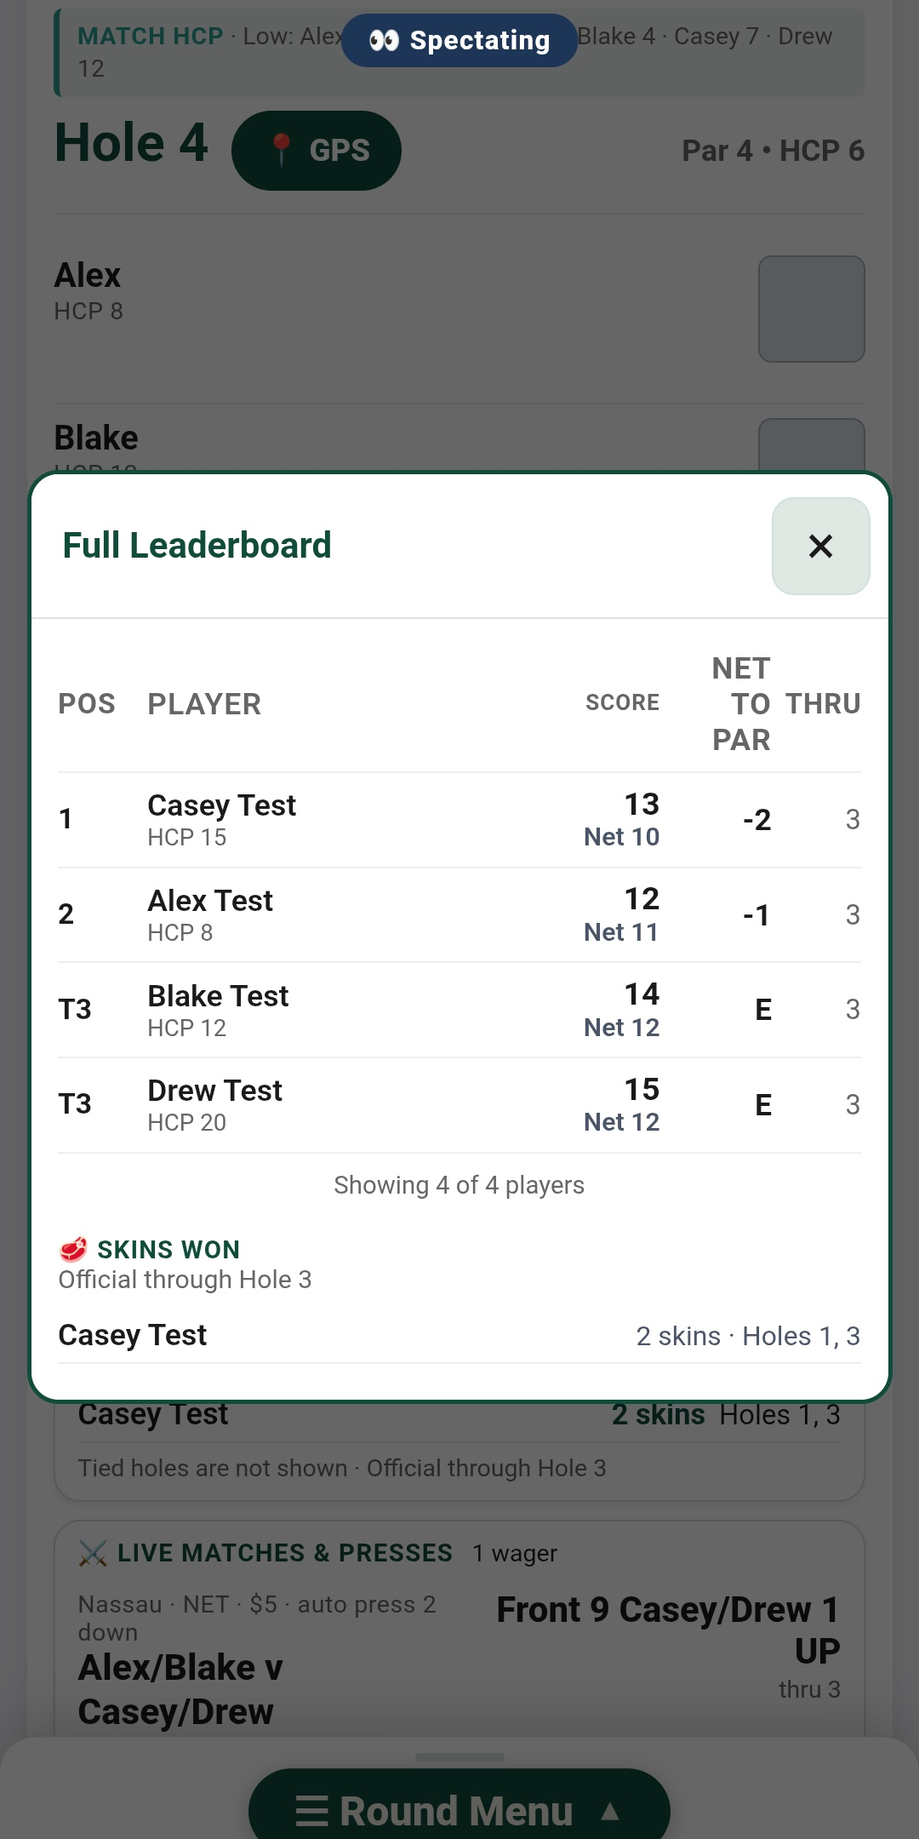
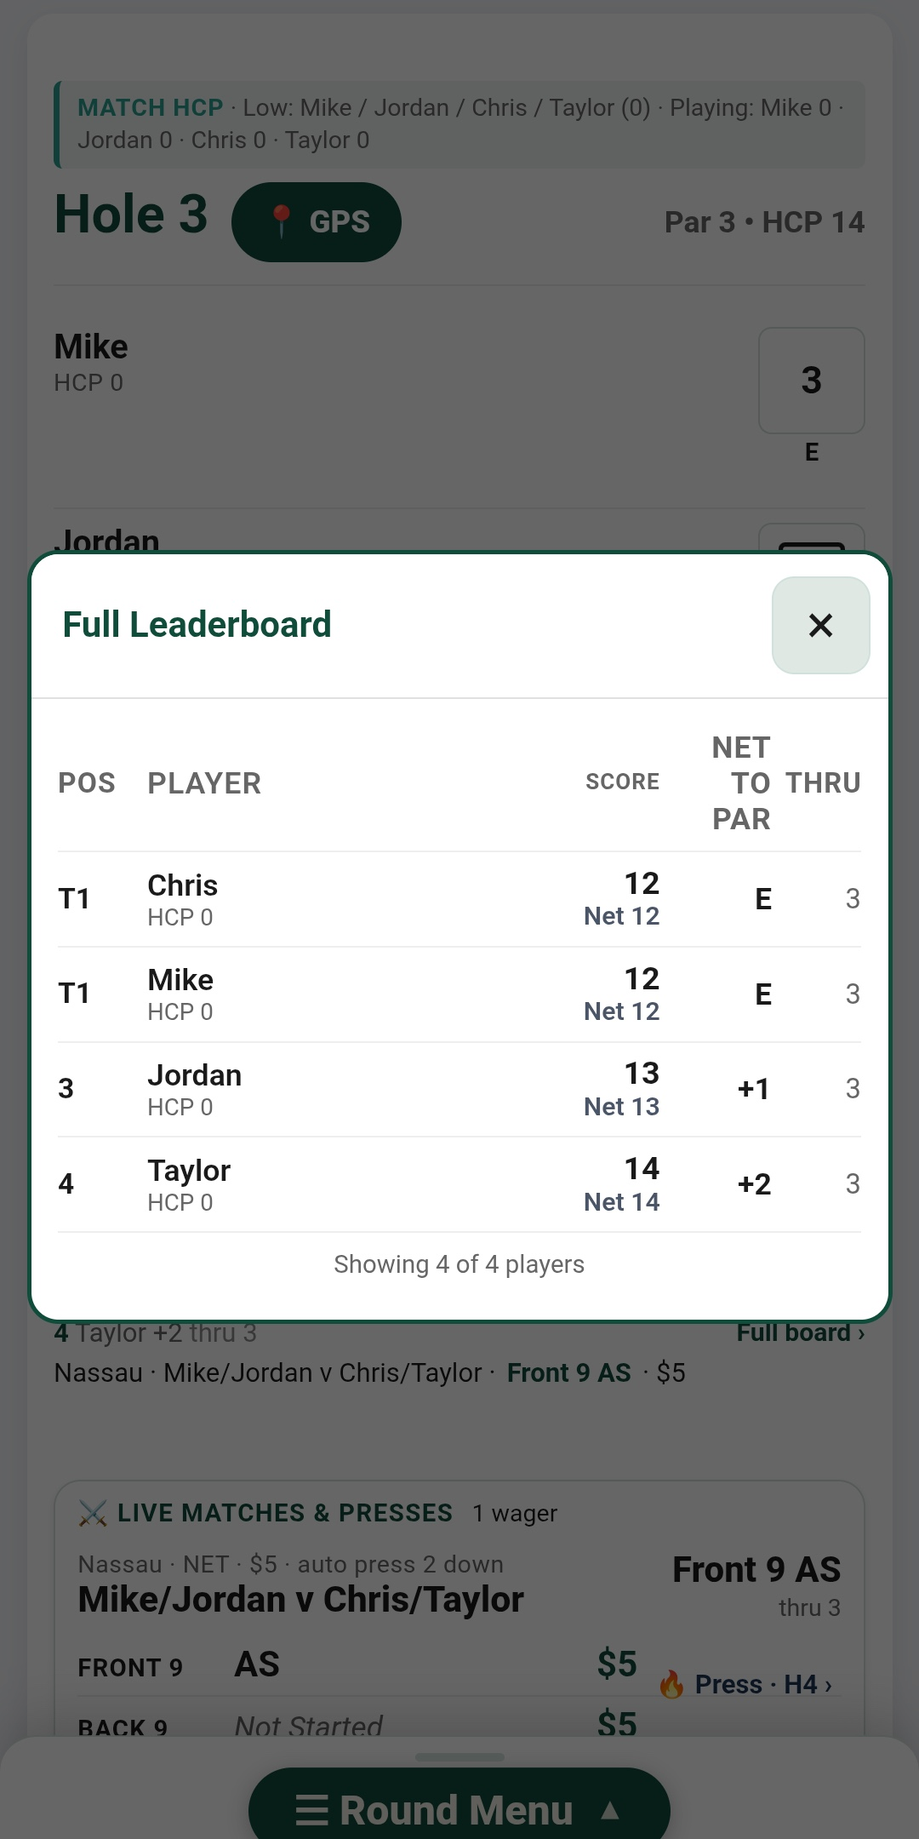
Android 0.2 (6): email sign-in App Links (app side); job 006 answers; players-first loop root-caused
B (005 plan, app side). AndroidManifest: an autoVerify intent filter on MainActivity for
https://golfapp-9fb21.firebaseapp.com/__/auth/links. front-door.js armLinks(), Android
only: appUrlOpen (warm) and getLaunchUrl (cold) reopen admin.html with the link's own
sign-in query, which email-link-auth.js's install() already finishes; account=1 keeps the
launch hop off Home; one code is handled once; only our host, https, mode=signIn.
email-link-auth.js UNCHANGED: ActionCodeSettings stay byte-for-byte the same on the
website, iOS and Android (test). The 005 §2a.5 "android block only from Android" change
conflicts with that, so it is held for Manny.
Emulator (adb user-selection override, no hosting): pm get-app-links lists the domain;
a /__/auth/links link opened via VIEW reached the app warm (delivered to the running
instance) and cold (LaunchState COLD), landing on admin.html's finish path.
android_gps_fixes_test.js +6 (warm, cold, rejects, iOS unchanged, settings unchanged,
manifest); 6 negative controls red (one was inert until a foreign-inner-host case was
added), each restored by sha.

A. Legal drafts (not deployed): deletion "reply within 7 days, delete within 30" (Manny
to confirm before deploy); the two keyless organizer records stay (stage-2 rule NOT live,
mailbox 007); privacy policy: "the date at the top changes" replaces the in-app notice.
Screenshots 06-07 reshot from screenshot round LX83Z6 ("GPS round": Mike, Jordan, Chris,
[…]

diff --git a/android_gps_fixes_test.js b/android_gps_fixes_test.js
@@ -59,7 +59,8 @@ function windowFor(platform, page, extra) {
     const geo = (extra && extra.geo) || {};
     const App = {
         addListener(name, fn) { calls.push('App.addListener:' + name); (listeners[name] = listeners[name] || []).push(fn); return { remove() {} }; },
-        minimizeApp() { calls.push('App.minimizeApp'); }
+        minimizeApp() { calls.push('App.minimizeApp'); },
+        getLaunchUrl() { calls.push('App.getLaunchUrl'); return Promise.resolve((extra && extra.launchUrl) ? { url: extra.launchUrl } : undefined); }
     };
     const W = {
         Capacitor: {
@@ -71,7 +72,7 @@ function windowFor(platform, page, extra) {
         history: { back() { calls.push('history.back'); } },
         navigator: { onLine: true },
         localStorage: { getItem: () => null, setItem() {}, removeItem() {} },
-        sessionStorage: { getItem: () => null, setItem() {}, removeItem() {} },
+        sessionStorage: (() => { const m = new Map(); return { getItem: k => (m.has(k) ? m.get(k) : null), setItem: (k, v) => m.set(k, String(v)), removeItem: k => m.delete(k) }; })(),
         document: {
             readyState: 'complete',
             getElementById: id => els.get(id) || null,
@@ -82,7 +83,7 @@ function windowFor(platform, page, extra) {
         setTimeout(fn, ms) { const t = { fn, at: now + (ms || 0), id: timers.length + 1 }; timers.push(t); return t.id; },
         clearTimeout(id) { const t = timers.find(x => x.id === id); if (t) t.fn = null; },
         addEventListener() {}, scrollTo() {}, console,
-        URLSearchParams, Promise, JSON, Math, Date, String, Number, Array, Object, RegExp, Error
+        URL, URLSearchParams, Promise, JSON, Math, Date, String, Number, Array, Object, RegExp, Error
     };
     W.window = W;
     if (extra && extra.GolfBack) W.GolfBack = extra.GolfBack;
@@ -405,5 +406,78 @@ describe('5. THE STATUS BAR: Android only, native, no page CSS changed', () => {
         });
         walk(ios);
         assert.deepEqual(hit, [], 'an iOS source reads insetsHandling, so the config key reaches iOS');
+    });
+});
+
+// ---------------------------------------------------------------------------
+// JOB 006 (from the 005 plan): an email sign-in link opens the app on Android.
+describe('B. APP LINKS: the email sign-in link opens the app on Android only', () => {
+    const KEY = 'K', CODE = 'TESTCODE123';
+    const inner = 'https://golfapp-9fb21.firebaseapp.com/__/auth/action?apiKey=' + KEY + '&mode=signIn&oobCode=' + CODE
+        + '&continueUrl=https://golf-app-5a5.pages.dev/admin.html&lang=en';
+    const wrapper = 'https://golfapp-9fb21.firebaseapp.com/__/auth/links?link=' + encodeURIComponent(inner);
+    const want = 'admin.html?apiKey=' + KEY + '&mode=signIn&oobCode=' + CODE
+        + '&continueUrl=https%3A%2F%2Fgolf-app-5a5.pages.dev%2Fadmin.html&lang=en&account=1';
+
+    test('Android, warm start: appUrlOpen with the link reopens admin.html with its own sign-in query, once', { skip }, () => {
+        const sb = windowFor('android', 'home.html');
+        sb.__els.set('v-main', sb.__el('v-main')); sb.__els.get('v-main').classList.add('on');
+        load(sb, 'front-door.js');
+        const open = sb.__listeners.appUrlOpen || [];
+        assert.equal(open.length, 1, 'no appUrlOpen listener on Android');
+        open[0]({ url: wrapper });
+        assert.equal(sb.location.href, want, 'the link did not go to the existing email-link finish');
+        sb.location.href = 'home.html';
+        open[0]({ url: wrapper });
+        assert.equal(sb.location.href, 'home.html', 'the same code was handled twice');
+    });
+
+    test('Android, cold start: getLaunchUrl carries the link the same way', { skip }, async () => {
+        const sb = windowFor('android', 'home.html', { launchUrl: wrapper });
+        sb.__els.set('v-main', sb.__el('v-main')); sb.__els.get('v-main').classList.add('on');
+        load(sb, 'front-door.js');
+        await settle();
+        assert.ok(sb.__calls.includes('App.getLaunchUrl'));
+        assert.equal(sb.location.href, want);
+    });
+
+    test('Android: anything that is not a sign-in link on our host is ignored', { skip }, () => {
+        const sb = windowFor('android', 'home.html');
+        load(sb, 'front-door.js');
+        const t = sb.HardPanLinks.target;
+        assert.equal(t('https://golfapp-9fb21.firebaseapp.com/__/auth/handler?x=1'), null);
+        assert.equal(t('https://evil.example.com/__/auth/links?link=' + encodeURIComponent(inner)), null);
+        assert.equal(t('https://golfapp-9fb21.firebaseapp.com/__/auth/links?link=' + encodeURIComponent(inner.replace('golfapp-9fb21.firebaseapp.com', 'evil.example.com'))), null, 'our host wrapping a foreign inner link');
+        assert.equal(t('https://golfapp-9fb21.firebaseapp.com/__/auth/links?link=' + encodeURIComponent(inner.replace('mode=signIn', 'mode=resetPassword'))), null);
+        assert.equal(t('http://golfapp-9fb21.firebaseapp.com/__/auth/links?link=' + encodeURIComponent(inner)), null);
+        assert.equal(t(inner), want, 'the inner action link alone is accepted too');
+    });
+
+    test('iOS UNCHANGED: no appUrlOpen listener, no getLaunchUrl', { skip }, () => {
+        const sb = windowFor('ios', 'home.html', { launchUrl: wrapper });
+        load(sb, 'front-door.js');
+        assert.equal((sb.__listeners.appUrlOpen || []).length, 0);
+        assert.ok(!sb.__calls.includes('App.getLaunchUrl'));
+    });
+
+    test('ActionCodeSettings are byte-for-byte the same on the website, iOS and Android (unchanged)', () => {
+        const { loadJsFile } = require('./helpers/load-script.js');
+        const sb = loadJsFile('email-link-auth.js', []);
+        const url = 'https://golf-app-5a5.pages.dev/admin.html';
+        const as = (cap) => { sb.Capacitor = sb.window.Capacitor = cap; return JSON.stringify(sb.emailLinkAuth.actionCodeSettings(url)); };
+        const web = as(undefined);
+        const ios = as({ getPlatform: () => 'ios', isNativePlatform: () => true, Plugins: {} });
+        const android = as({ getPlatform: () => 'android', isNativePlatform: () => true, Plugins: {} });
+        const before = JSON.stringify({ url, handleCodeInApp: true, iOS: { bundleId: 'com.rattlegolf.app' }, android: { packageName: 'com.rattlegolf.app', installApp: false } });
+        assert.equal(web, before, 'the website ActionCodeSettings changed');
+        assert.equal(ios, before, 'the iOS ActionCodeSettings changed');
+        assert.equal(android, before);
+    });
+
+    test('the manifest hands /__/auth/links on the Firebase Hosting domain to MainActivity, autoVerify', () => {
+        const m = read('android/app/src/main/AndroidManifest.xml');
+        assert.match(m, /<intent-filter android:autoVerify="true">\s*<action android:name="android\.intent\.action\.VIEW" \/>\s*<category android:name="android\.intent\.category\.DEFAULT" \/>\s*<category android:name="android\.intent\.category\.BROWSABLE" \/>\s*<data android:scheme="https" android:host="golfapp-9fb21\.firebaseapp\.com" android:pathPrefix="\/__\/auth\/links" \/>\s*<\/intent-filter>/);
+        const act = m.slice(m.indexOf('android:name=".MainActivity"'), m.indexOf('</activity>'));
+        assert.ok(act.includes('android:pathPrefix="/__/auth/links"'), 'the filter is not on MainActivity');
     });
 });

diff --git a/front-door.js b/front-door.js
@@ -2892,6 +2892,49 @@
     }
     armBack();
 
+    // ---- ANDROID: AN EMAIL SIGN-IN LINK OPENS THE APP (job 006, the 005 plan) ------------
+    // AndroidManifest.xml's intent filter hands https://golfapp-9fb21.firebaseapp.com/__/auth/
+    // links to the app; the App plugin carries it here - appUrlOpen on a warm start,
+    // getLaunchUrl on a cold one. It reopens admin.html with the link's own query (mode=signIn
+    // &oobCode=...), which is exactly the arrival email-link-auth.js's install() already
+    // finishes for the website - no second sign-in path. account=1 keeps the launch hop from
+    // sending a bare admin.html to Home. A code is handled once: getLaunchUrl keeps answering
+    // the same launch URL on every page load of that launch. ANDROID ONLY: iOS and the web
+    // never arm it.
+    var LINK_HOST = 'golfapp-9fb21.firebaseapp.com', LINK_DONE = 'hardpan_email_link_done';
+    function signInTarget(url) {
+        try {
+            var u = new URL(String(url || ''));
+            if (u.protocol !== 'https:' || u.hostname !== LINK_HOST || u.pathname.indexOf('/__/auth/') !== 0) return null;
+            var inner = u.searchParams.get('link');
+            if (inner) u = new URL(inner);
+            if (u.hostname !== LINK_HOST || u.searchParams.get('mode') !== 'signIn' || !u.searchParams.get('oobCode')) return null;
+            var q = new URLSearchParams(u.search);
+            q.set('account', '1');
+            return 'admin.html?' + q.toString();
+        } catch (e) { return null; }
+    }
+    function openSignInLink(url) {
+        var to = signInTarget(url);
+        if (!to) return false;
+        var code = new URLSearchParams(to.split('?')[1]).get('oobCode');
+        if (ss(LINK_DONE) === code) return false;
+        ss(LINK_DONE, code);
+        W.location.href = to;
+        return true;
+    }
+    function armLinks() {
+        if (!native() || !android()) return false;
+        var App = W.Capacitor.Plugins && W.Capacitor.Plugins.App;
+        if (!App || typeof App.addListener !== 'function') return false;
+        App.addListener('appUrlOpen', function (ev) { openSignInLink(ev && ev.url); });
+        if (typeof App.getLaunchUrl === 'function') {
+            Promise.resolve(App.getLaunchUrl()).then(function (r) { openSignInLink(r && r.url); }, function () {});
+        }
+        return true;
+    }
+    armLinks();
+
     W.HardPanDoors = { dayLabel: dayLabel, historyList: historyList, recapHref: recapHref, joinGroups: joinGroups, seenRound: seenRound, roundResult: roundResult, hasGames: hasGames, thruOf: thruOf, joinTarget: joinTarget, joinHref: joinHref, joinProblem: joinProblem, roundHref: roundHref, stuckRound: stuckRound, forgetRound: forgetRound, spectatorMode: spectatorMode, spectating: spectating, openShare: openShare, myTrips: myTrips, rememberTrip: rememberTrip, golfapiPlace: golfapiPlace, activeRound: activeRound, stuck: stuck, LOC_MS: LOC_MS, LOAD_MS: LOAD_MS, LAUNCH_MS: LAUNCH_MS, ALL_GAMES: ALL_GAMES, openAddGame: openAddGame, closeAddGame: closeAddGame, todaysGamesAdd: todaysGamesAdd, playersFirst: agPlayersFirst, AG_NEED: AG_NEED, tripPrefill: tripPrefill, placeMenuItems: placeMenuItems, placeGpsPill: placeGpsPill, door: door, setDoor: setDoor, on: on, afterSave: afterSave, recents: recents, addRecent: addRecent, gpsRoundStrip: gpsRoundStrip, allCourses: allCourses, miles: miles, ready: ready,
         position: position, nearList: nearList, shownName: shownName, where: where, meName: meName, myHcp: myHcp, loadScriptTimed: loadScriptTimed, STATES: STATES, gamesOf: gamesOf, simpleOn: simpleOn,
         draftRead: draftRead, draftKeep: draftKeep, draftClear: draftClear, draftHref: draftHref,
@@ -2904,6 +2947,7 @@
         roundBackGuard: roundBackGuard };
     W.HardPanHome = { start: homeStart, show: show };
     W.HardPanBack = { layer: backLayer, back: back, position: position };
+    W.HardPanLinks = { target: signInTarget };
     // A LAUNCH LANDS ON THE DOORS AT ONCE (Manny, 2026-10-12: the cold launch showed the
     // scorecard's "Connecting to game..." on the way). The app opens index.html with no
     // round; it used to hop index -> admin -> home, drawing each. Now, as this file is read

diff --git a/docs/legal/delete-account-DRAFT.html b/docs/legal/delete-account-DRAFT.html
@@ -2,9 +2,9 @@
 <!-- DRAFT FOR MANNY (job 003, 2026-10-17). NOT DEPLOYED. Play's account-deletion page.
      "What is deleted / what stays" matches the CLIENT delete path in account-exit.js as it
      runs today: the accountDelete Cloud Function is NOT deployed (live answers 404), so the
-     app falls back to the client delete. Two lines depend on whether the stage-2 delete rule
-     (database.rules.stage2delete.json) is live - see the NEEDS-MANNY note. The email-request
-     timeframe is a promise Manny must make: placeholder until he answers. -->
+     app falls back to the client delete. The stage-2 delete rule is NOT live (Manny's console check, mailbox 007,
+     2026-10-17): organizers/$uid has no .write, so firstSeenAt and pass stay - the page says so. The email-request
+     timeframe ("reply within 7 days, delete within 30") is from job 006: MANNY TO CONFIRM BEFORE DEPLOY. -->
 <html lang="en">
 <head>
 <meta charset="UTF-8">
@@ -40,7 +40,7 @@
 <p>You need a signal: if a step can't reach our servers, nothing is deleted and the app asks you to try again.</p>
 
 <h2>By email</h2>
-<p>If you can't open the app, email <a href="mailto:support@rattlegolf.com?subject=Delete%20my%20HardPan%20account">support@rattlegolf.com</a> from the address you signed in with, with the subject <strong>"Delete my HardPan account"</strong>. We reply to confirm and delete the account within <strong>[TIMEFRAME — Manny to set]</strong>.</p>
+<p>If you can't open the app, email <a href="mailto:support@rattlegolf.com?subject=Delete%20my%20HardPan%20account">support@rattlegolf.com</a> from the address you signed in with, with the subject <strong>"Delete my HardPan account"</strong>. We reply within 7 days and delete the account within 30 days.</p>
 
 <h2>What is deleted</h2>
 <ul>
@@ -52,7 +52,7 @@
 <h2>What stays</h2>
 <ul>
 <li><strong>Rounds.</strong> A round belongs to everyone who played it, so it is not deleted with your account: the scores stay under its game code, for the golfers who have it. An organizer can erase a round with End &amp; Wipe Round, or email us its code.</li>
-<li><strong>Two small records with your old account id</strong>: the date you were first seen and, if you had one, a founder pass. They hold no name or email, and nobody can read them once the account is gone. <em>[Only if the stage-2 delete rule is not live — see note.]</em></li>
+<li><strong>Two small records with your old account id</strong>: the date you were first seen and, if you had one, a founder pass. They hold no name or email, and nobody can read them once the account is gone.</li>
 <li><strong>A daily count of course lookups</strong> made by your old account id (used to limit lookups). It holds no name or email.</li>
 <li><strong>Green positions</strong> you set while playing. They never carried your name or account.</li>
 </ul>

diff --git a/docs/legal/privacy-policy-DRAFT.html b/docs/legal/privacy-policy-DRAFT.html
@@ -100,7 +100,7 @@
 <p>Everything is sent over encrypted connections (HTTPS). Database rules let only the right people change a round or an account.</p>
 
 <h2>Changes</h2>
-<p>If this policy changes, the date at the top changes, and an important change is shown in the app.</p>
+<p>When this policy changes, the date at the top changes.</p>
 
 <footer>Rattle Golf LLC · <a href="mailto:support@rattlegolf.com">support@rattlegolf.com</a></footer>
 </div>

diff --git a/android_release_test.js b/android_release_test.js
@@ -62,7 +62,7 @@ describe('VERSION', () => {
     });
 
     test('versionCode is its own sequence and is pinned here', () => {
-        assert.match(GRADLE, /versionCode 5\b/, 'versionCode is not 5; the iOS build number is not this sequence');
+        assert.match(GRADLE, /versionCode 6\b/, 'versionCode is not 6; the iOS build number is not this sequence');
     });
 });
 

diff --git a/docs/FOR-IOS-SESSION.md b/docs/FOR-IOS-SESSION.md
@@ -55,11 +55,20 @@ were reproduced on an iPhone.
    - Android now tries once more after `load` (job 003). iOS is unchanged.
    - If an iPhone ever shows "This round's setup belongs to its organizer" on a round it just made, this is why.
 
-8. **The players-first hand-off doesn't continue (seen on Android; iOS not checked).**
-   - Repro: Vegas from Add a game with one golfer → Players step → add 3 golfers → "Save golfers · set up Vegas ›".
-   - The players save to the round (4 in RTDB), but the hand-off doesn't happen: `hardpan_ag_next` stays at `stage: 'players'`, so `showRoundReadyScreen` → `afterSave` never ran. `saveSettings()` stopped early with no visible message.
-   - Not root-caused: the round created from the GPS door has no `courseKey`, only `courseName`, which may matter.
-   - My tap automation was slow on this run, so treat it as unproven until reproduced by hand.
+8. **The players-first hand-off loops back to Players. ROOT-CAUSED (job 006); shared, not fixed.**
+   - **Repro** (Android emulator, 0.2 (6), round LX83Z6 from the GPS door): Add a game → Vegas with 1 golfer → Players → add 3 golfers → "Save golfers · set up Vegas ›". You land on Players again, every time.
+   - **What actually happens.** Recorded in a debugging probe, kept in sessionStorage across the reload:
+     `save:start → save:returned → showRoundReadyScreen(LX83Z6) → afterSave(LX83Z6) → unload → afterSave returned true`.
+     So the save **works** (all 4 golfers are in RTDB), and `afterSave` sets `stage: 'game'` and goes to `index.html?game=LX83Z6&agq=vegas`.
+   - **The bounce.** On the scorecard, `front-door.js` ~L1049-1058 waits only for `agPlayers().length` (**any** golfer), then calls `agQuick(agq)`.
+     `agQuick` → `agPlayersFirst(tpl)` counts `currentData.players` again, and at that moment `currentData` is the phone's **stored copy** of the round, `golfapp_snap_v1_LX83Z6`, saved before the golfers were added.
+     Measured: stored copy **1** golfer, live round **4**. So 1 < 4 sends the golfer back to Players, and `agNext` is reset to `stage: 'players'`. It loops.
+   - **Shared:** the same `front-door.js` and the same offline snapshot ship in the iOS GPS build. Whether iOS hits it depends only on whether the stored copy draws before the live data, which is likely there too.
+   - **Fix options for the iOS session** (not done here):
+     - wait for `agPlayers().length >= agNeed(agq)` (still capped at 80 ticks) instead of `length`; or
+     - skip the players-first check once `nx.stage === 'game'` (the golfers were just saved); or
+     - refresh `golfapp_snap_v1_<code>` when admin saves the roster.
+     The first is the smallest.
 
 ## Shared files android-gps changed (all Android-gated)
 
@@ -72,6 +81,7 @@ the old path unchanged, and `android_gps_fixes_test.js` asserts the iOS half of 
 | `gps-view.js` | `backLayer()` / `back()` added to the API (called only by Android Back) |
 | `pwa-boot.js` | `androidTopLevel()`: on Android, an empty press at a page's top level goes to Home |
 | `auth-boot.js` | `retryAfterLoad()`: on Android only, "no Firebase App" waits for `load` and signs in once more (job 003) |
+| `front-door.js` (again) | `armLinks()`: on Android only, an email sign-in link (App Links, `/__/auth/links`) reopens admin.html with its sign-in query; `email-link-auth.js` is unchanged (job 006) |
 | `admin.html` | `isAndroidShell()`; no Apple/Google/Link buttons, email card shown; Notifications card hidden; Setup Coach back probe |
 | `index.html` | Round Menu sheet back probe (Android only) |
 | `capacitor.config.ts` | `plugins.SystemBars.insetsHandling = 'disable'` (Android reads it; Capacitor iOS has no such key) |

diff --git a/docs/PLAY-SUBMISSION.md b/docs/PLAY-SUBMISSION.md
@@ -1,6 +1,6 @@
 # HardPan Golf for Google Play: submission prep (job 001)
 
-Prepared 2026-10-17 on `android-gps` for the build **0.2 (versionCode 5)**, package `com.rattlegolf.app`,
+Prepared 2026-10-17 on `android-gps` for the build **0.2 (versionCode 6)**, package `com.rattlegolf.app`,
 under the Rattle Golf LLC organization account (still in Google's verification).
 Nothing here has been entered in Play Console. Paste from this file once the account is verified.
 
@@ -204,14 +204,14 @@ Check G4 before publishing the "we delete" list. Without the server function, so
 | iPhone set (`final-10`) | — | **Not usable**: 1320×2868 = 2.17:1, and iOS chrome |
 
 Screenshots (clean install, 0.2 (5), demo round 5RZ8GE): 01 Home, 02 Near you (Caledonia), 03 GPS hole 4 (151 to centre), 04 GPS near the green (41), 05 scorecard (Alex / Blake / Casey / Drew), 06 full leaderboard, 07 Results (settle summary), 08 Share with QR.
-Left for Manny: 06 and 07 show the demo data's names ("Casey Test" etc.) and its title "App Review demo (TEST round)". For polished store images, a round made for screenshots needs a database write, which is your call.
+06 and 07 were reshot (job 006) from a separate screenshot round, **LX83Z6** ("GPS round" at Caledonia: Mike, Jordan, Chris, Taylor; a $5 Nassau; 3 holes scored). The App Review round 5RZ8GE is untouched.
 
 ---
 
-## 7. Release checklist: 0.2 (versionCode 5)
+## 7. Release checklist: 0.2 (versionCode 6)
 
-- [x] `app-release.aab` builds: `android/app/build/outputs/bundle/release/app-release.aab`, 5,767,389 bytes, sha256 `26cc9636…2e8a` (job 003 commit).
-- [x] versionName **0.2**, versionCode **5**, package **com.rattlegolf.app**.
+- [x] `app-release.aab` builds: `android/app/build/outputs/bundle/release/app-release.aab`, 5,768,350 bytes, sha256 `4db361f6…67a6` (job 006 commit).
+- [x] versionName **0.2**, versionCode **6**, package **com.rattlegolf.app**.
 - [x] Signed with the upload key, SHA-1 **92:A2:04:D8:21:67:16:18:E2:C7:0D:0A:5E:4D:00:A8:78:DD:A7:3B**. Enroll in Play App Signing at first upload.
 - [x] **targetSdk 36**, minSdk 24. Play rule (developer.android.com, updated 2026-10-16): since **31 Aug 2026**, new apps and updates must target **Android 16 (API 36)** or higher. An extension to 1 Nov 2026 can be requested. **Met.**
 - [x] Portrait only. No background location. No ads. No billing.

diff --git a/docs/legal/privacy-DIFF.md b/docs/legal/privacy-DIFF.md
@@ -31,5 +31,5 @@ Add these back when they ship.
 
 ## Open points for Manny
 1. Publishing date and who signs off.
-2. "Rounds are kept… until the organizer wipes the round or asks us to." Is there a retention limit you want to promise?
-3. The draft says an important change "is shown in the app". Only keep that if you'll actually do it.
+2. Resolved (job 006): retention wording kept as drafted.
+3. Resolved (job 006): dropped. The draft now says only that the date at the top changes when the policy changes.
